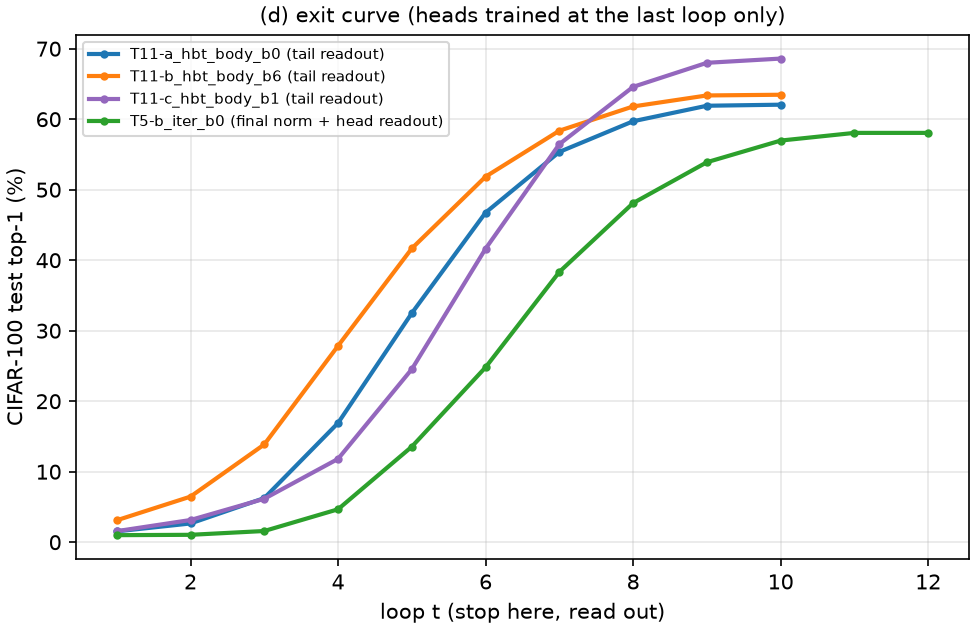
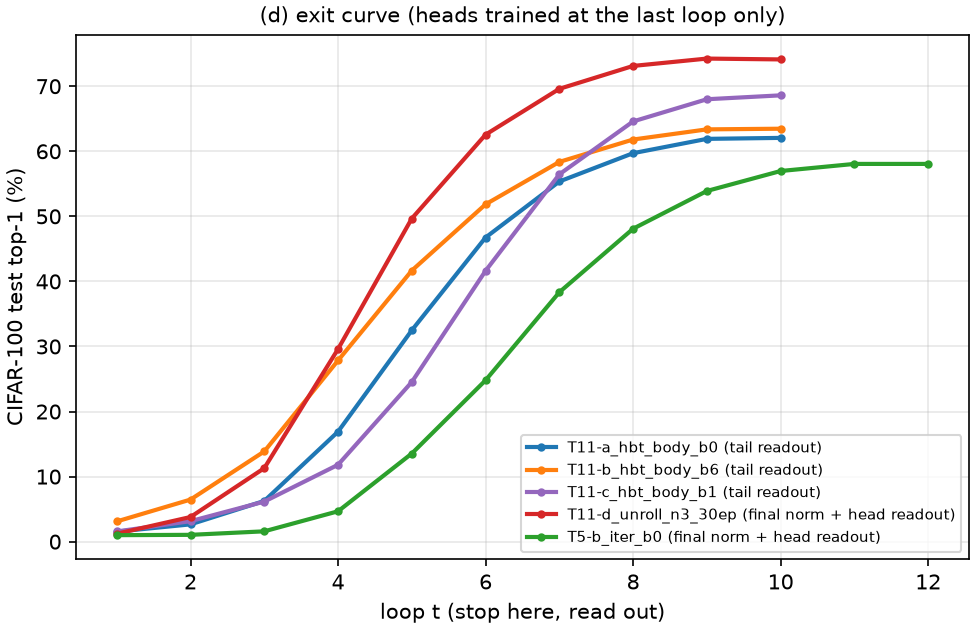
docs: T12 T11-d final-norm readout and decision lines

diff --git a/tasks/T12_per_loop_cls_diagnostics/loop_diagnostics.py b/tasks/T12_per_loop_cls_diagnostics/loop_diagnostics.py
@@ -82,11 +82,11 @@ def find_body(model: nn.Module) -> tuple[nn.Module, list[nn.Module]]:
 
 
 def readout_kind(model_name: str, tail: list[nn.Module]) -> str | None:
-    """How (d) reads out at loop t: "tail" (hbt: classifier(norm(tail(x_t)))), "norm" (iterative: no tail,
-    classifier(norm(x_t))), or None (unrolled models: no tail, and the spec defines no readout for them)."""
+    """How (d) reads out at loop t: "tail" (hbt: classifier(norm(tail(x_t)))), "norm" (iterative and unrolled models,
+    no tail: classifier(norm(x_t)); for unrolled models decided 2026-10-30), or None (no readout defined)."""
     if model_name == "hbt" and tail:
         return "tail"
-    if model_name == "iterative" and not tail:
+    if model_name in ("iterative", "unroll") and not tail:
         return "norm"
     return None
 

diff --git a/tasks/T12_per_loop_cls_diagnostics/test_t12_diagnostics.py b/tasks/T12_per_loop_cls_diagnostics/test_t12_diagnostics.py
@@ -55,7 +55,8 @@ def test_find_body_rejects_unlooped_models() -> None:
 def test_readout_kind() -> None:
     assert readout_kind("hbt", [nn.Identity()]) == "tail"
     assert readout_kind("iterative", []) == "norm"
-    assert readout_kind("unroll", []) is None
+    assert readout_kind("unroll", []) == "norm"
+    assert readout_kind("baseline", []) is None
 
 
 def test_relative_update_known_values() -> None:

diff --git a/tasks/T12_per_loop_cls_diagnostics/README.md b/tasks/T12_per_loop_cls_diagnostics/README.md
@@ -23,7 +23,8 @@ Per loop t, averaged over images (per-image values also saved in `results/per_im
 - (c) o_t = attention sublayer output for token 0 (after proj, before the residual add), c = x_{t−1}[:,0],
   o_perp = o_t − (o_t·c / ‖c‖²) c: ‖o_perp‖ / ‖o_t‖. Also cos(Δ_t[:,0], Δ_{t−1}[:,0]) for t ≥ 2.
 - (d) Exit curve, all 10k test images: T11 models read out through the tail, classifier(final_norm(tail(x_t))[:,0]);
-  iter b0 (no tail) uses final norm + classifier on x_t[:,0] (check: loops 11, 12 = 58.1, as in T8).
+  iter b0 and T11-d (no tail) use final norm + classifier on x_t[:,0] (decided 2026-10-30; checks: iter b0 loops 11,
+  12 = 58.1, as in T8; T11-d loop 10 = its own top-1).
 
 Images: the same fixed 1,000 CIFAR-100 test images as T8 (its `test_loaders`, seed 0) for (a)-(c), all 10,000 for (d).
 Eval mode, no augmentation, fp32. The forward pass is not changed: the body's inputs/outputs come from a forward hook,
@@ -97,9 +98,12 @@ Plots: `results/rel_update.png`, `results/attn_cos_entropy.png`, `results/new_di
 
 ### T11 checkpoints (2026-10-30)
 Loops t = 1..10 of the body, x_0 = head output (T11-d: block 2's 10 repeats, x_0 = block 1 output). (d) is read out
-through the tail, classifier(final_norm(tail(x_t))[:, 0]), on all 10,000 test images. Own top-1 vs logged:
-T11-a 62.06 / 62.05, T11-b 63.47 / 63.47, T11-c 68.60 / 68.59, T11-d 74.12 / 74.11 (checked separately, since (d) is
-skipped for it). Recompute check: max |diff| 4.8e-6 to 8.6e-6. Log: `results/diagnostics_T11.log`.
+through the tail, classifier(final_norm(tail(x_t))[:, 0]), on all 10,000 test images; T11-d has no tail, so its (d) uses
+final norm + classifier on x_t (decided 2026-10-30, added the same evening). Own top-1 vs logged:
+T11-a 62.06 / 62.05, T11-b 63.47 / 63.47, T11-c 68.60 / 68.59, T11-d 74.12 / 74.11. The one-image gap is fp32 here vs
+AMP when the number was logged during training; T11-d's loop-10 readout is identical to its own full-depth top-1 (74.12).
+Recompute check: max |diff| 4.8e-6 to 8.6e-6. Logs: `results/diagnostics_T11.log`,
+`results/diagnostics_T11-d_readout.log`.
 
 **T11-c (winner): head b0, body b1 x10, tail b11**
 
@@ -146,20 +150,20 @@ skipped for it). Recompute check: max |diff| 4.8e-6 to 8.6e-6. Log: `results/dia
 | 9 | 0.1334 | 0.1288 | 1.036 | 0.994 | 4.700 | 0.994 | 0.967 | 63.37 |
 | 10 | 0.1218 | 0.1155 | 1.054 | – | 4.718 | 0.993 | 0.975 | 63.47 |
 
-**T11-d: unrolling n = 3, no tail, so (d) is skipped (see gotcha)**
+**T11-d: unrolling n = 3, no tail, (d) read out with final norm + classifier on x_t**
 
 | loop t | rel_cls | rel_patch | ratio | cos(A_t, A_t+1) | H(A_t) | new-direction share | cos(ΔCLS_t, ΔCLS_t-1) | readout acc |
 |---|---|---|---|---|---|---|---|---|
-| 1 | 0.2778 | 0.6481 | 0.429 | 0.808 | 4.797 | 0.969 | – | – |
-| 2 | 0.2703 | 0.4619 | 0.585 | 0.906 | 4.684 | 0.988 | 0.387 | – |
-| 3 | 0.2729 | 0.3588 | 0.761 | 0.925 | 4.516 | 0.993 | 0.530 | – |
-| 4 | 0.3232 | 0.3241 | 0.997 | 0.926 | 4.419 | 0.997 | 0.685 | – |
-| 5 | 0.3488 | 0.2781 | 1.254 | 0.933 | 4.449 | 0.995 | 0.788 | – |
-| 6 | 0.3071 | 0.2245 | 1.368 | 0.949 | 4.571 | 0.987 | 0.783 | – |
-| 7 | 0.2797 | 0.1949 | 1.435 | 0.967 | 4.653 | 0.982 | 0.850 | – |
-| 8 | 0.2448 | 0.1737 | 1.409 | 0.978 | 4.708 | 0.979 | 0.906 | – |
-| 9 | 0.2083 | 0.1573 | 1.324 | 0.983 | 4.759 | 0.980 | 0.926 | – |
-| 10 | 0.1788 | 0.1448 | 1.235 | – | 4.796 | 0.983 | 0.939 | – |
+| 1 | 0.2778 | 0.6481 | 0.429 | 0.808 | 4.797 | 0.969 | – | 1.22 |
+| 2 | 0.2703 | 0.4619 | 0.585 | 0.906 | 4.684 | 0.988 | 0.387 | 3.79 |
+| 3 | 0.2729 | 0.3588 | 0.761 | 0.925 | 4.516 | 0.993 | 0.530 | 11.30 |
+| 4 | 0.3232 | 0.3241 | 0.997 | 0.926 | 4.419 | 0.997 | 0.685 | 29.61 |
+| 5 | 0.3488 | 0.2781 | 1.254 | 0.933 | 4.449 | 0.995 | 0.788 | 49.67 |
+| 6 | 0.3071 | 0.2245 | 1.368 | 0.949 | 4.571 | 0.987 | 0.783 | 62.56 |
+| 7 | 0.2797 | 0.1949 | 1.435 | 0.967 | 4.653 | 0.982 | 0.850 | 69.60 |
+| 8 | 0.2448 | 0.1737 | 1.409 | 0.978 | 4.708 | 0.979 | 0.906 | 73.12 |
+| 9 | 0.2083 | 0.1573 | 1.324 | 0.983 | 4.759 | 0.980 | 0.926 | 74.25 |
+| 10 | 0.1788 | 0.1448 | 1.235 | – | 4.796 | 0.983 | 0.939 | 74.12 |
 
 Summary per model (late = loops t ≥ 4; ratio = mean over loops of rel_cls / rel_patch):
 
@@ -176,6 +180,9 @@ Summary per model (late = loops t ≥ 4; ratio = mean over loops of rel_cls / re
   loop 8, not loop 6 or 7: T11-a 55.4 at loop 7 (−6.7), T11-b 58.4 (−5.1), T11-c 56.5 (−12.1). The first 3-4 loops are near
   chance even through the tail (1.5-14%), so the tail cannot "clean up" an early state. Most of the accuracy appears
   in loops 5-8.
+  T11-d (final norm + classifier readout, added later): 1.2 / 3.8 / 11.3 / 29.6 / 49.7 / 62.6 / 69.6 / 73.1 / 74.2 / 74.1. It
+  rises earlier than the H-B-T models and is within 5 pts of loop 10 from loop 7 (69.6, −4.5); loop 9 (74.25) is even a
+  hair above loop 10 (74.12).
 - (a) The iter b0 prediction (ratio < 0.5) also fails for every T11 model. Only T11-d at loop 1 (0.43) is below 0.5.
   The ratio starts at 0.7-0.8 in loops 1-3 and rises to 1.0-1.4 by the late loops. CLS does not move less than the patches.
 - (b) holds for every model. cos(A_t, A_t+1) > 0.8 from loop 1 or 2 (T11-a from loop 2), 0.93-0.99 from loop 4. All the
@@ -188,8 +195,13 @@ and the unrolled model. H3 (the body updates patches, not CLS) is not supported:
 as much as or more than the patches in the late loops. The late loops look like the same step repeated with a shrinking
 size (aligned updates, near-identical attention), not new evidence being gathered.
 
-**Decision line.** iter b0: late cos 0.958 > 0.8, ratio 1.08 → "coverage mask". T11 winner (T11-c): late cos
-0.958 > 0.8, ratio 1.02 (not < 0.3) → "coverage mask". They agree (and every other model gives the same pick, with
-either cosine definition).
+**Decision lines** (rule applied to iter b0, the T11 winner T11-c, and T11-d, as the 2026-10-30 spec update asks):
+- iter b0: late cos 0.958 > 0.8 → yes; mean ratio 1.08, not < 0.3 → no. **"T14 pick: coverage mask".**
+- T11-c (T11 winner): late cos 0.958 > 0.8 → yes; mean ratio 1.02, not < 0.3 → no. **"T14 pick: coverage mask".**
+- T11-d: late cos 0.956 > 0.8 → yes; mean ratio 1.08, not < 0.3 → no. **"T14 pick: coverage mask".**
+
+All three agree, so the T11 winner does not have to break a tie (T11-a and T11-b give the same pick, with either cosine
+definition). T11-d's line matters only if T14 switches to the T11-d base (T14 exception rule); it would take the same
+add-on.
 
 **T14 pick: coverage mask**

diff --git a/tasks/T12_per_loop_cls_diagnostics/results/table_T11-d_unroll_n3_30ep.md b/tasks/T12_per_loop_cls_diagnostics/results/table_T11-d_unroll_n3_30ep.md
@@ -1,12 +1,12 @@
 | loop t | rel_cls | rel_patch | ratio | cos(A_t, A_t+1) | H(A_t) | new-direction share | cos(ΔCLS_t, ΔCLS_t-1) | readout acc |
 |---|---|---|---|---|---|---|---|---|
-| 1 | 0.2778 | 0.6481 | 0.429 | 0.808 | 4.797 | 0.969 | – | – |
-| 2 | 0.2703 | 0.4619 | 0.585 | 0.906 | 4.684 | 0.988 | 0.387 | – |
-| 3 | 0.2729 | 0.3588 | 0.761 | 0.925 | 4.516 | 0.993 | 0.530 | – |
-| 4 | 0.3232 | 0.3241 | 0.997 | 0.926 | 4.419 | 0.997 | 0.685 | – |
-| 5 | 0.3488 | 0.2781 | 1.254 | 0.933 | 4.449 | 0.995 | 0.788 | – |
-| 6 | 0.3071 | 0.2245 | 1.368 | 0.949 | 4.571 | 0.987 | 0.783 | – |
-| 7 | 0.2797 | 0.1949 | 1.435 | 0.967 | 4.653 | 0.982 | 0.850 | – |
-| 8 | 0.2448 | 0.1737 | 1.409 | 0.978 | 4.708 | 0.979 | 0.906 | – |
-| 9 | 0.2083 | 0.1573 | 1.324 | 0.983 | 4.759 | 0.980 | 0.926 | – |
-| 10 | 0.1788 | 0.1448 | 1.235 | – | 4.796 | 0.983 | 0.939 | – |
+| 1 | 0.2778 | 0.6481 | 0.429 | 0.808 | 4.797 | 0.969 | – | 1.22 |
+| 2 | 0.2703 | 0.4619 | 0.585 | 0.906 | 4.684 | 0.988 | 0.387 | 3.79 |
+| 3 | 0.2729 | 0.3588 | 0.761 | 0.925 | 4.516 | 0.993 | 0.530 | 11.30 |
+| 4 | 0.3232 | 0.3241 | 0.997 | 0.926 | 4.419 | 0.997 | 0.685 | 29.61 |
+| 5 | 0.3488 | 0.2781 | 1.254 | 0.933 | 4.449 | 0.995 | 0.788 | 49.67 |
+| 6 | 0.3071 | 0.2245 | 1.368 | 0.949 | 4.571 | 0.987 | 0.783 | 62.56 |
+| 7 | 0.2797 | 0.1949 | 1.435 | 0.967 | 4.653 | 0.982 | 0.850 | 69.60 |
+| 8 | 0.2448 | 0.1737 | 1.409 | 0.978 | 4.708 | 0.979 | 0.906 | 73.12 |
+| 9 | 0.2083 | 0.1573 | 1.324 | 0.983 | 4.759 | 0.980 | 0.926 | 74.25 |
+| 10 | 0.1788 | 0.1448 | 1.235 | – | 4.796 | 0.983 | 0.939 | 74.12 |
